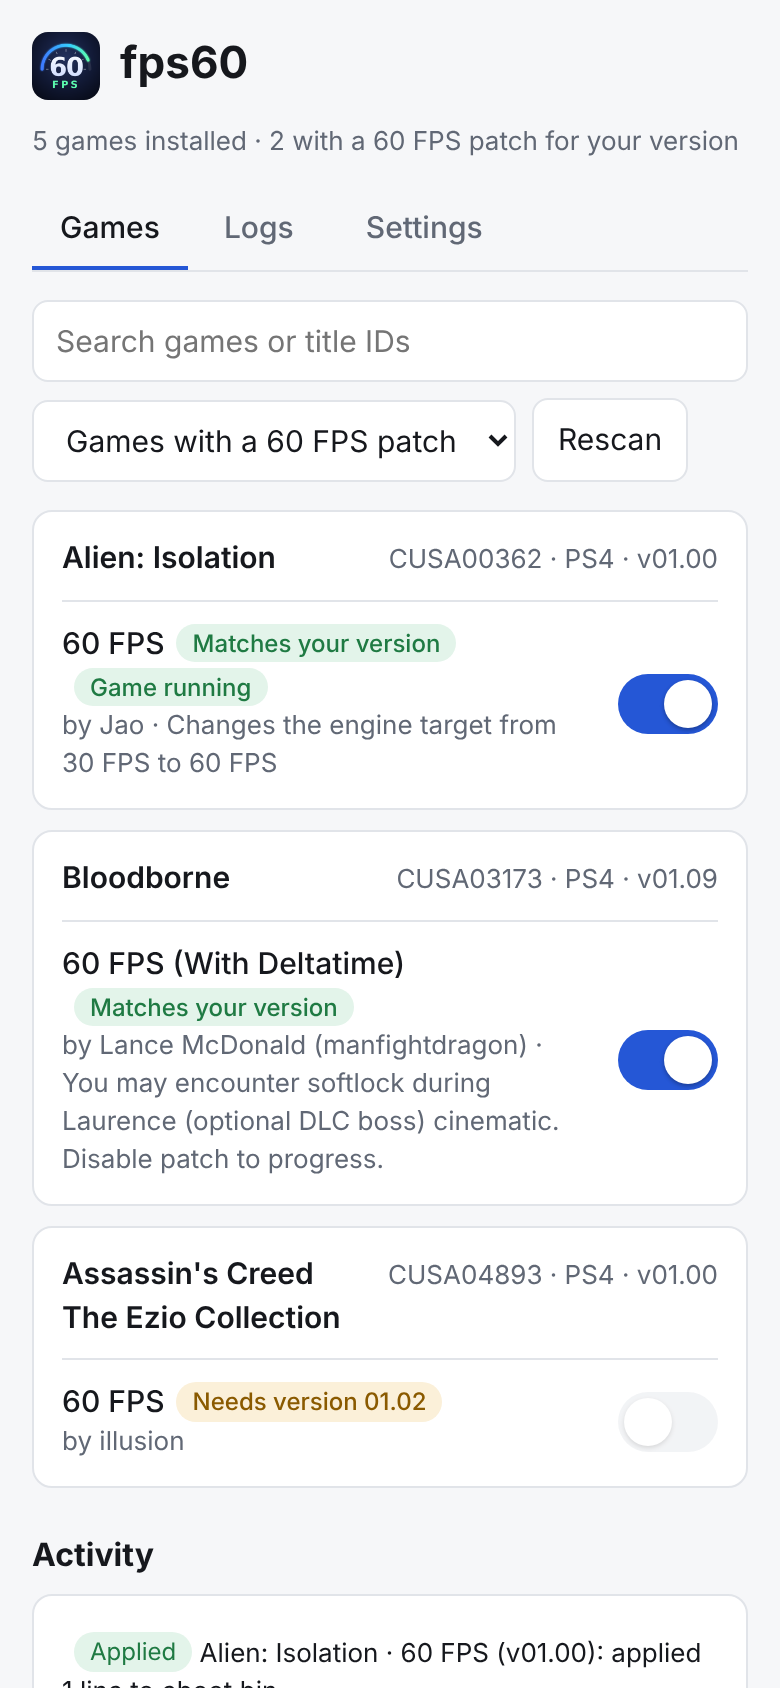
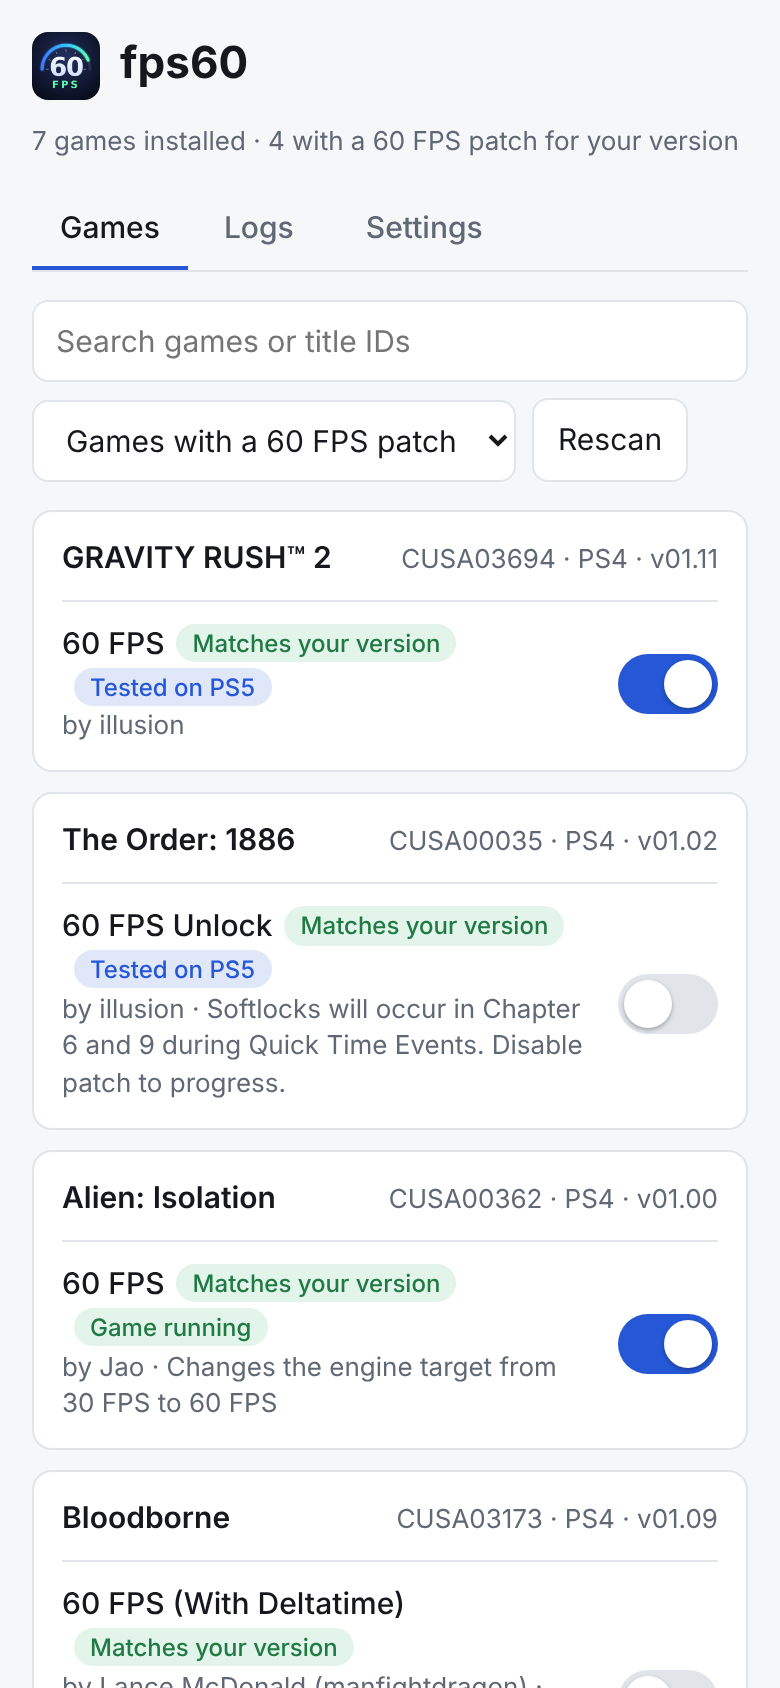
Version 1.0.0: versioned public releases with changelog
- VERSION file (1.0.0) built into the ELF; shown in the start
  notification, the log, /api/service and Settings > About
- CHANGELOG.md with what changed in each version
- release workflow: on a vX.Y.Z tag it checks the tag matches VERSION,
  runs the tests, builds with the pinned SDK and publishes a release with
  fps60.elf, a zip (ELF, README, changelog) and that version's changelog
  section as the notes; make dist builds the zip
- pin the PS5 payload SDK to v0.44 in CI and the README
- README: download from Releases, versions and releases section
- Tested on PS5 label and filter for the patches confirmed on a console:
  Gravity Rush 2 (v01.11) and The Order: 1886 (v01.02); README section
  with the tested games

Claude-Session: https://claude.ai/code/session_01HUbQdqcC4pjqq6FUWtakGH

diff --git a/fps60/ui.html b/fps60/ui.html
@@ -39,6 +39,7 @@
              aria-label="Search games">
       <select id="filter" aria-label="Filter">
         <option value="patched">Games with a 60 FPS patch</option>
+        <option value="tested">Tested on PS5</option>
         <option value="all">All installed games</option>
       </select>
       <button id="rescan" type="button">Rescan</button>
@@ -65,6 +66,18 @@
 const { $, el, chip, call, showError } = App;
 let state = null;
 let busy = false;
+
+// Patches confirmed working on a real PS5 (see "Tested games" in the README).
+// Each entry covers every regional title ID of the game.
+const TESTED = [
+  { game: "Gravity Rush 2", patch: "60 FPS", version: "01.11",
+    tids: ["CUSA00547", "CUSA03694", "CUSA04934", "CUSA04943"] },
+  { game: "The Order: 1886", patch: "60 FPS Unlock", version: "01.02",
+    tids: ["CUSA00035", "CUSA00070", "CUSA00076", "CUSA00100", "CUSA00670", "CUSA00785"] },
+];
+const testedFor = (tid, name) =>
+  TESTED.find((t) => t.patch === name && t.tids.includes(tid));
+const gameTested = (g) => g.patches.some((p) => testedFor(g.tid, p.name));
 
 async function refresh() {
   if (busy) return;
@@ -114,6 +127,12 @@ function patchRow(game, patch) {
   } else {
     name.append(chip("bad", "Not supported by fps60"));
   }
+  const tested = testedFor(game.tid, patch.name);
+  if (tested) {
+    const c = chip("info", "Tested on PS5");
+    c.title = "Confirmed working on a PS5 with game version " + tested.version;
+    name.append(c);
+  }
   if (patch.enabled && running) name.append(chip("ok", "Game running"));
   info.append(name);
 
@@ -138,12 +157,13 @@ function render() {
   if (!state) return;
   App.renderSettings();
   const q = $("search").value.trim().toLowerCase();
-  const onlyPatched = $("filter").value === "patched";
+  const filter = $("filter").value;
   const games = state.games
-    .filter((g) => !onlyPatched || g.patches.length)
+    .filter((g) => filter === "all" || (filter === "tested" ? gameTested(g) : g.patches.length))
     .filter((g) => !q || (g.name + " " + g.tid).toLowerCase().includes(q))
     .sort((a, b) =>
       (b.patches.some((p) => p.available) - a.patches.some((p) => p.available)) ||
+      (gameTested(b) - gameTested(a)) ||
       (a.name || a.tid).localeCompare(b.name || b.tid));
 
   const withPatch = state.games.filter((g) => g.patches.some((p) => p.available)).length;

diff --git a/common/ui/common.js b/common/ui/common.js
@@ -305,6 +305,7 @@ const App = (() => {
     tileRow.button.className = service.tile ? "danger" : "";
 
     const rows = [
+      ["Version", "v" + service.version],
       ["On a phone", service.lanUrl || location.origin + "/"],
       ["Build", service.build],
       ...(opts.about ? opts.about() : []),

diff --git a/common/service.c b/common/service.c
@@ -22,6 +22,7 @@ static pthread_mutex_t g_lock = PTHREAD_MUTEX_INITIALIZER;
 static service_info_t g_info;
 // Own copies of the strings in g_info; callers may pass temporary buffers.
 static char g_name[32], g_proc_name[32], g_data_dir[200], g_tile_tid[16];
+static char g_version[32];
 static int g_srv = -1;
 static int g_replaced;
 static int g_tile_installed;
@@ -67,10 +68,13 @@ void
 service_setup(const service_info_t *info) {
   g_info = *info;
   snprintf(g_name, sizeof(g_name), "%s", info->name);
+  snprintf(g_version, sizeof(g_version), "%s",
+           info->version && info->version[0] ? info->version : "dev");
   snprintf(g_proc_name, sizeof(g_proc_name), "%s", info->proc_name);
   snprintf(g_data_dir, sizeof(g_data_dir), "%s", info->data_dir);
   snprintf(g_tile_tid, sizeof(g_tile_tid), "%s", info->tile_tid);
   g_info.name = g_name;
+  g_info.version = g_version;
   g_info.proc_name = g_proc_name;
   g_info.data_dir = g_data_dir;
   g_info.tile_tid = g_tile_tid;
@@ -124,8 +128,8 @@ service_start(const service_info_t *info) {
 
   mkdir(info->data_dir, 0755);
   log_open(g_log_path);
-  LOGI("%s starting (built " __DATE__ " " __TIME__ "), pid %d, log file %s",
-       info->name, (int)getpid(), g_log_path);
+  LOGI("%s v%s starting (built " __DATE__ " " __TIME__ "), pid %d, log file %s",
+       info->name, info->version, (int)getpid(), g_log_path);
   sys_set_process_name(info->proc_name);
 
   // Before anything else, so two copies never run side by side.
@@ -198,7 +202,7 @@ service_announce(void) {
   pthread_mutex_unlock(&g_lock);
 
   LOGI("web page at %s", g_lan_url);
-  snprintf(msg, sizeof(msg), "%s %s: %s", g_info.name,
+  snprintf(msg, sizeof(msg), "%s v%s %s: %s", g_info.name, g_info.version,
            g_replaced ? "restarted" : "running", g_lan_url);
   sys_notify(msg);
 }
@@ -238,6 +242,8 @@ service_json(strbuf_t *sb) {
   pthread_mutex_lock(&g_lock);
   sb_puts(sb, "{\"name\":");
   sb_json_str(sb, g_info.name);
+  sb_puts(sb, ",\"version\":");
+  sb_json_str(sb, g_info.version);
   sb_printf(sb, ",\"build\":\"%s %s\",\"port\":%d,\"tile\":%s,\"tileTid\":",
             __DATE__, __TIME__, g_info.port,
             g_tile_installed ? "true" : "false");

diff --git a/fps60/main.c b/fps60/main.c
@@ -9,6 +9,10 @@
 #include "sys.h"
 
 
+#ifndef APP_VERSION
+#define APP_VERSION "dev"  // set from VERSION by the Makefile
+#endif
+
 #ifndef FPS60_DIR
 #define FPS60_DIR      "/data/fps60"
 #endif
@@ -34,6 +38,7 @@ int
 main(void) {
   service_info_t info = {
     .name = "fps60",
+    .version = APP_VERSION,
     .proc_name = "fps60.elf",
     .data_dir = FPS60_DIR,
     .port = 8060,

diff --git a/common/service.h b/common/service.h
@@ -10,6 +10,7 @@
 
 typedef struct service_info {
   const char          *name;       // "fps60"; also names the log file
+  const char          *version;    // "1.0.0", from the repository's VERSION
   const char          *proc_name;  // "fps60.elf", as process lists show it
   const char          *data_dir;   // "/data/fps60"
   int                  port;       // web page port

diff --git a/README.md b/README.md
@@ -4,6 +4,7 @@
 
 <p align="center">
   Unlock 60 FPS in PS4 and PS5 games on a jailbroken PS5, with one switch per game.<br>
+  <a href="https://github.com/eladharels/ps5-60fps/releases/latest"><img src="https://img.shields.io/github/v/release/eladharels/ps5-60fps?label=release" alt="latest release"></a>
   <a href="https://github.com/eladharels/ps5-60fps/actions/workflows/build.yml"><img src="https://github.com/eladharels/ps5-60fps/actions/workflows/build.yml/badge.svg" alt="build"></a>
 </p>
 
@@ -22,11 +23,13 @@ patch into the game's memory as it loads. Your game files are never changed.
 
 - [What you need](#what-you-need)
 - [Quick start](#quick-start)
+- [Tested games](#tested-games)
 - [Using fps60](#using-fps60)
 - [How it works](#how-it-works)
 - [Files on the console](#files-on-the-console)
 - [Limits and safety](#limits-and-safety)
 - [Troubleshooting](#troubleshooting)
+- [Versions and releases](#versions-and-releases)
 - [Building from source](#building-from-source)
 - [Credits](#credits)
 
@@ -41,15 +44,15 @@ patch into the game's memory as it loads. Your game files are never changed.
 
 ## Quick start
 
-1. **Get `fps60.elf`.** Download the `fps60` artifact from the latest
-   [build](https://github.com/eladharels/ps5-60fps/actions/workflows/build.yml)
-   (you need to be signed in to GitHub), or [build it](#building-from-source).
+1. **Download `fps60.elf`** from the
+   [latest release](https://github.com/eladharels/ps5-60fps/releases/latest)
+   (or the zip, which also has this README and the changelog).
 2. **Send it to the console** after jailbreaking:
    ```bash
    socat -t 99999999 - TCP:<ps5-ip>:9021 < fps60.elf
    ```
    or pick it in Payload Manager. The console shows
-   *"fps60 running: http://&lt;ps5-ip&gt;:8060"*.
+   *"fps60 v1.0.0 running: http://&lt;ps5-ip&gt;:8060"*.
 3. **Open fps60.** On the home screen, go to **Media** and open the **fps60**
    tile. It opens the page in the console's browser. On a phone or computer
    on the same network, open `http://<ps5-ip>:8060` instead.
@@ -59,6 +62,21 @@ patch into the game's memory as it loads. Your game files are never changed.
 fps60 keeps running until the console restarts or goes into rest mode. Your
 switches are saved, so after a reboot you only need to send `fps60.elf` again.
 To skip even that, add `fps60.elf` to Payload Manager's autoload list.
+
+## Tested games
+
+These patches have been confirmed working on a real PS5. They show a
+**Tested on PS5** label on the Games tab, and the **Tested on PS5** filter
+lists only them.
+
+| Game | Patch | Game version | Notes |
+| --- | --- | --- | --- |
+| Gravity Rush 2 | 60 FPS | 01.11 | |
+| The Order: 1886 | 60 FPS Unlock | 01.02 | The patch author notes softlocks in chapters 6 and 9 during quick-time events: switch the patch off to get past them. |
+
+The other patches come from the community and should work the same way, but
+haven't been tried with fps60 yet. If you test one, open an issue with the
+game, its version and the result, so it can be added here.
 
 ## Using fps60
 
@@ -72,6 +90,8 @@ switch and a label:
 
 - **Matches your version:** the patch is made for the version you have
   installed. You can switch it on.
+- **Tested on PS5:** confirmed working on a real console (see
+  [Tested games](#tested-games)).
 - **Needs version X:** the patch exists, but for another game version.
   Update (or downgrade) the game to use it.
 - **Not supported by fps60:** the patch uses a feature fps60 doesn't
@@ -83,7 +103,8 @@ patches have side effects, such as a cutscene you need to switch the patch
 off for.
 
 - **Search** filters by name or title ID.
-- **All installed games** shows games without a patch too.
+- **Tested on PS5** shows only tested patches; **All installed games** shows
+  games without a patch too.
 - **Rescan** reads the installed games again (after installing or updating
   a game).
 - **Activity** lists what was applied, and why a patch failed.
@@ -222,16 +243,46 @@ To update the patch list without rebuilding fps60, copy a newer
 | *"port 8060 is busy"* | Another program uses port 8060, or the running fps60 didn't stop. Restart the console. |
 | The tile opens an error page | fps60 isn't running. Send `fps60.elf` again (or add it to Payload Manager's autoload). |
 
+## Versions and releases
+
+Every version is published on the
+[Releases page](https://github.com/eladharels/ps5-60fps/releases) with:
+
+- `fps60.elf`, ready to send to the console
+- `fps60-vX.Y.Z.zip`, which holds the same ELF plus this README and the
+  changelog
+
+What changed in each version is in [CHANGELOG.md](CHANGELOG.md) and in each
+release's notes. The running version is shown in the start notification and
+under Settings > About.
+
+Version numbers follow [semantic versioning](https://semver.org):
+
+- **X:** goes up for changes that break your setup.
+- **Y:** goes up for new features.
+- **Z:** goes up for fixes.
+
+Publishing a new version (for maintainers):
+
+1. Put the new number in `VERSION`, and add a `## [X.Y.Z] - date` section at
+   the top of `CHANGELOG.md`.
+2. Merge the change into `main`.
+3. Tag the merge commit and push the tag: `git tag vX.Y.Z && git push origin vX.Y.Z`.
+4. The *release* workflow checks the tag matches `VERSION`, runs the tests,
+   builds with the pinned SDK (v0.44), and publishes the release with the
+   changelog section as its notes.
+
 ## Building from source
 
 ```bash
-sudo apt-get install make clang-18 lld-18 llvm-18 wget unzip python3 git socat
-wget https://github.com/ps5-payload-dev/sdk/releases/latest/download/ps5-payload-sdk.zip
+sudo apt-get install make clang-18 lld-18 llvm-18 wget unzip zip python3 git socat
+wget https://github.com/ps5-payload-dev/sdk/releases/download/v0.44/ps5-payload-sdk.zip
 sudo unzip -d /opt ps5-payload-sdk.zip
 export PS5_PAYLOAD_SDK=/opt/ps5-payload-sdk LLVM_CONFIG=/usr/bin/llvm-config-18
 
 make            # fps60.elf
 make check      # host tests: no SDK or console needed
+make dist       # build/fps60-vX.Y.Z.zip
 make test PS5_HOST=<ps5-ip>   # send fps60.elf and stream its log
 ```
 
@@ -274,6 +325,7 @@ Actions > General > *Require approval for all external contributors*.
 | `fps60/` | Game scanning (`titles.c`), patch database (`patchdb.c`), patcher (`patcher.c`), watcher and state (`app.c`), console-specific code (`platform_ps5.c`), the page (`ui.html`) and the icon (`assets/`) |
 | `common/` | Shared payload framework: web server, log, startup/replace/stop (`service.c`), notifications and home screen tile (`sys_ps5.c`), Logs and Settings tabs (`ui/`) |
 | `tools/` | `build_patchdb.py` (patch converter) and `embed.py` (builds the page, patches and icon into the ELF) |
+| `.github/workflows/` | `build.yml` (tests and builds every push), `release.yml` (publishes a release for a version tag) |
 | `tests/` | Host tests |
 
 ## Credits

diff --git a/CHANGELOG.md b/CHANGELOG.md
@@ -1,0 +1,90 @@
+# Changelog
+
+All notable changes to fps60. Versions follow [semantic versioning](https://semver.org):
+the first number goes up for changes that break your setup, the second for new
+features, the third for fixes. Each version is a
+[release](https://github.com/eladharels/ps5-60fps/releases) with `fps60.elf`
+and a zip.
+
+## [1.0.0] - 2026-10-16
+
+First public release.
+
+### Added
+- **Tested on PS5** label and filter on the Games tab. Tested so far:
+  **Gravity Rush 2** (v01.11, *60 FPS*) and **The Order: 1886** (v01.02,
+  *60 FPS Unlock*).
+- Version number in the notification ("fps60 v1.0.0 running"), the log, and
+  Settings > About.
+- Releases with `fps60.elf` and a zip, built and published by GitHub Actions
+  from the version tag.
+
+### Changed
+- Built with a fixed PS5 payload SDK version (v0.44) instead of whatever is
+  newest, so every release can be rebuilt the same way.
+
+## [0.5.0] - 2026-10-16
+
+Not released as a download.
+
+### Changed
+- fps60 has its own repository (formerly `ps5-payload`); NetDis moved to
+  [ps5-netdis](https://github.com/eladharels/ps5-netdis).
+- New README with screenshots, how it works, troubleshooting and building.
+
+## [0.4.0] - 2026-10-15
+
+Not released as a download.
+
+### Changed
+- Built on a shared payload framework (also used by NetDis): web server,
+  log, start/replace/stop, home screen tile, Logs and Settings tabs.
+
+### Fixed
+- Turning a running game's patch off and on applied it a second time;
+  pattern-based patches then reported "pattern not found".
+- The page stalled while a patch searched the game's memory.
+- One idle connection (browsers open spare ones) froze the page for
+  everyone.
+- Re-sending fps60 could leave no copy running if the old one was busy.
+- **Stop** sometimes showed "Failed to fetch" because fps60 exited before
+  answering.
+- A failed tile install looked installed and was never retried.
+- After a re-send, the Logs tab missed the new copy's first lines.
+- A damaged `param.json` could be read past its end.
+- A switch could flip back on screen when a refresh landed during a toggle.
+
+## [0.3.0] - 2026-10-15
+
+Not released as a download.
+
+### Added
+- **fps60** tile under Media on the home screen; it opens the page in the
+  console's browser.
+- **Settings** tab: tile, rescan, stop, and the address for your phone.
+- TV layout: two columns, bigger controls, focus outlines.
+- The process is named `fps60.elf`, so Payload Manager lists it and can
+  stop it.
+- Sending a newer `fps60.elf` replaces the running copy.
+
+### Fixed
+- Running games weren't detected on some setups (seen with Gravity Rush 2).
+  fps60 now also asks the system which game is in the foreground.
+
+## [0.2.0] - 2026-10-15
+
+Not released as a download.
+
+### Added
+- **Logs** tab with every step: metadata scan, game start and exit, each
+  patch write with the bytes it replaced, errors. Also saved to
+  `/data/fps60/fps60.log`.
+
+## [0.1.0] - 2026-10-14
+
+Not released as a download.
+
+### Added
+- First version: scans installed games, matches about 160 community 60 FPS
+  patches to your game versions, a web page to switch them on, and a watcher
+  that patches games as they start.
